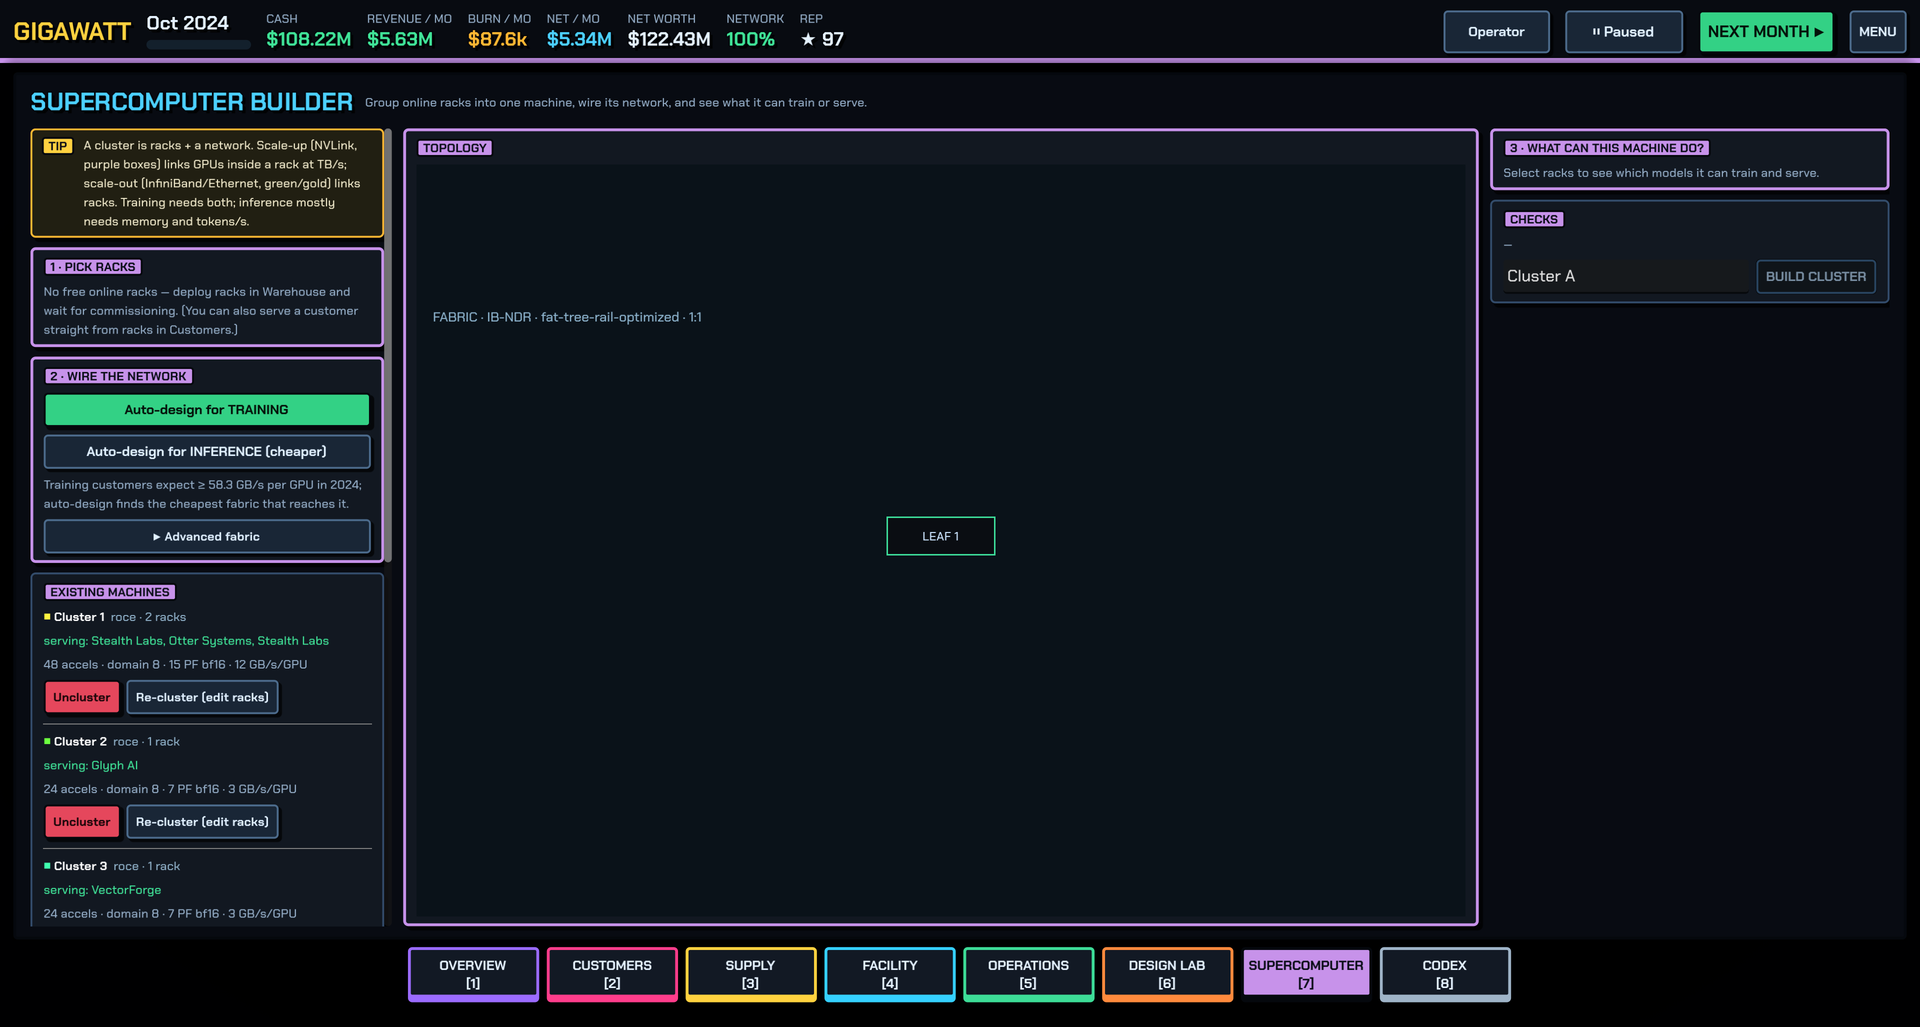
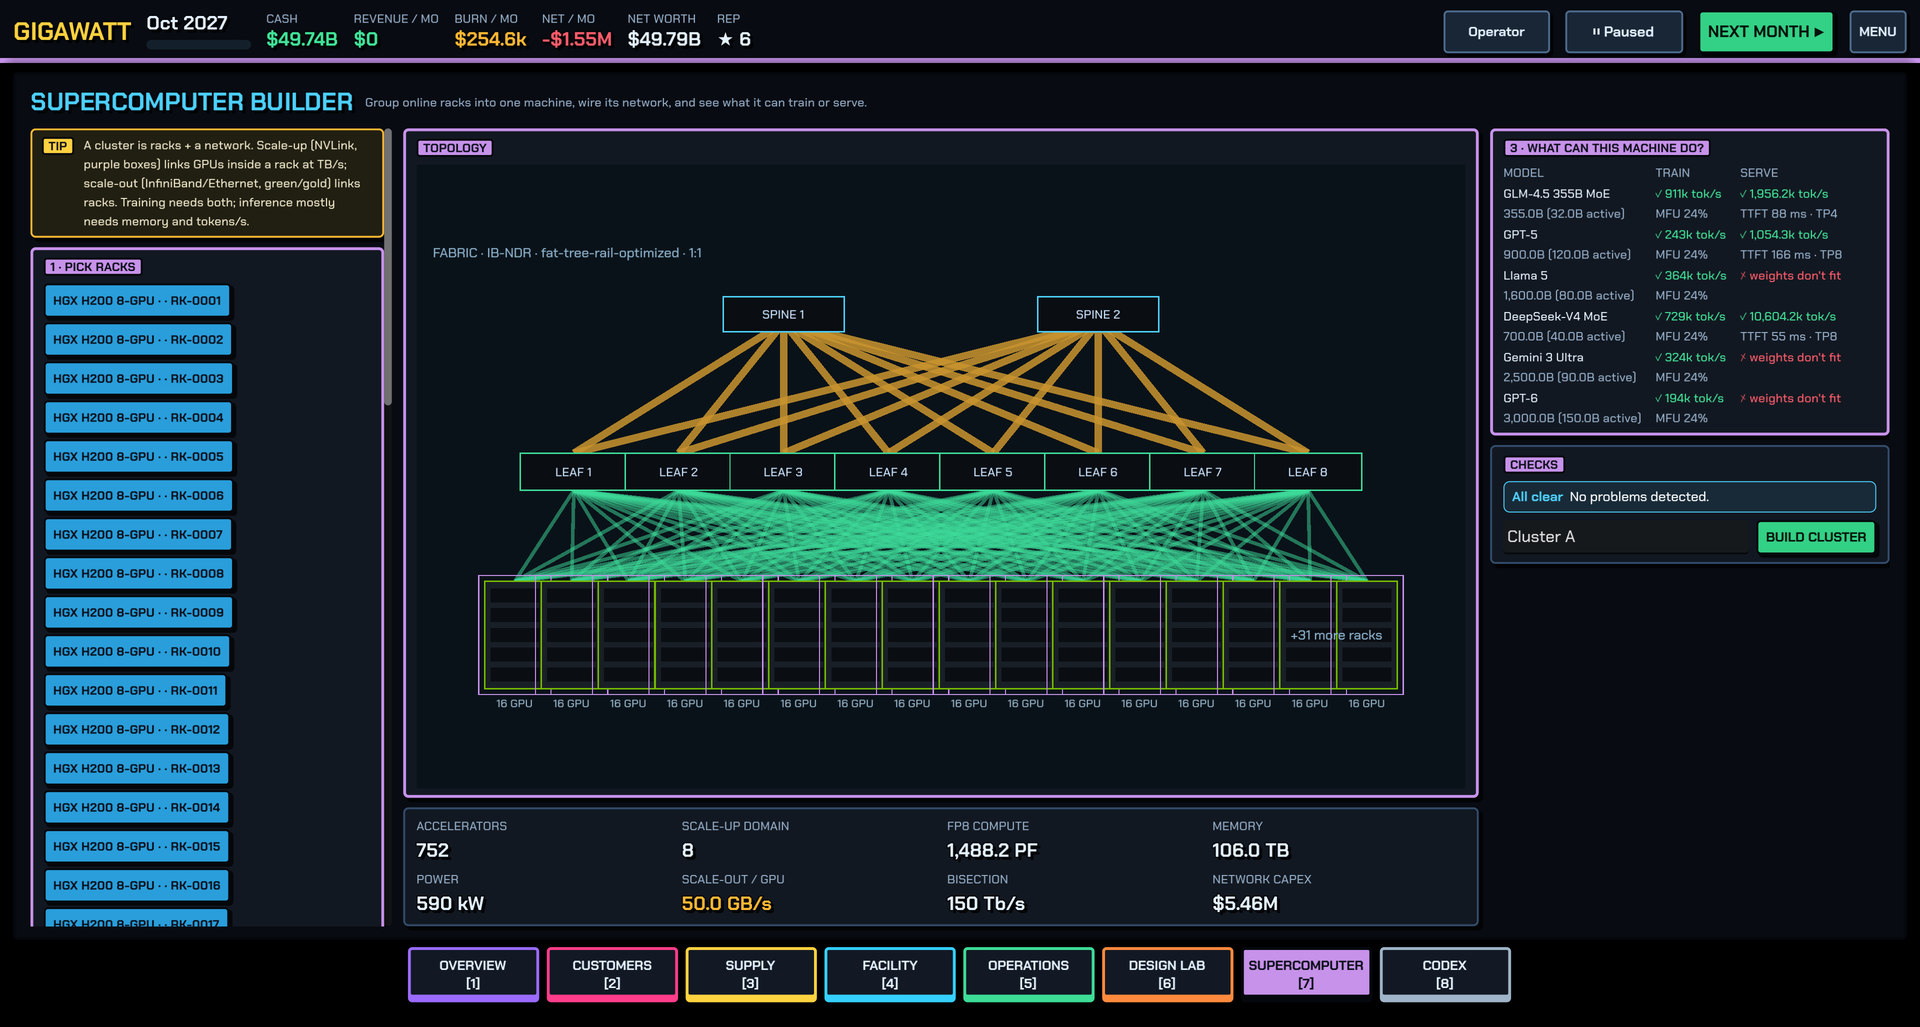
Supercomputer screenshot: 48-rack H200 cluster with a two-tier scale-out fabric (new 'supercomputer' scenario)
Claude-Session: https://claude.ai/code/session_01LLtMda2V2RW37hdgtQmr2z

diff --git a/src/env/scenarios.ts b/src/env/scenarios.ts
@@ -22,7 +22,7 @@ function plantUnit(kind: 'power' | 'cooling', cls0: string) {
 const advance = (n: number) => { for (let i = 0; i < n; i++) st().nextMonth(); };
 
 /** Build one 200-slot hall per cooling class and fill each with `racksPerTemplate` of every compatible template. Returns a report. */
-export function stressFill(racksPerTemplate: number, hallsPerClass = 1) {
+export function stressFill(racksPerTemplate: number, hallsPerClass = 1, only?: (t: typeof TEMPLATES[number]) => boolean) {
   const report: Record<string, any> = { halls: [], skipped: [] };
   const classes: CoolingClass[] = ['air', 'rdhx', 'dlc', 'immersion'];
   const hallOf: Record<string, string[]> = {};
@@ -30,6 +30,7 @@ export function stressFill(racksPerTemplate: number, hallsPerClass = 1) {
   const load: Record<string, number> = {}; const plan: { t: typeof TEMPLATES[number]; hall: string; n: number }[] = [];
   let rr = 0;
   for (const t of TEMPLATES) {
+    if (only && !only(t)) continue;
     const f = templateFacts(t); const cls = classes.find(c => c === t.rack.cooling) ?? 'air';
     const halls = hallOf[cls] ?? []; if (!halls.length) { report.skipped.push(t.id + ': no hall'); continue; }
     const hall = halls[rr++ % halls.length];
@@ -70,5 +71,6 @@ export const SCENARIOS: Scenario[] = [
   { id: 'lean', title: 'Lean start', seed: 2, horizonMonths: 120, description: '$8M cash: every dollar of capex and every contract choice matters.', setup: () => patch(g => { g.cash = 8_000_000; }) },
   { id: 'gold-rush-2025', title: 'GPU gold rush (Jan 2025)', seed: 3, horizonMonths: 60, description: 'Start in 2025 with $250M into Blackwell-era scarcity, high demand and allocation caps.', setup: () => patch(g => { g.month = 60; g.cash = 250_000_000; g.reputation = 60; g.demandBoost = 1.7; }) },
   { id: 'stress-all-racks', title: 'Stress: every rack type deployed', seed: 4, horizonMonths: 24, description: 'Sep-2026 start, effectively unlimited cash; four 200-slot halls (air/RDHx/DLC/immersion) pre-filled with every system template to test extremes of power, cooling, failures and fabric.', setup: () => { patch(g => { g.month = 80; g.cash = 5e10; }); stressFill(6); } },
+  { id: 'supercomputer', title: 'Showcase: an H200 supercomputer', seed: 6, horizonMonths: 24, description: 'Sep-2026 start with one air-cooled hall of 48 HGX H200 racks (768 GPUs), racks online and not yet clustered: open the Supercomputer screen to wire a multi-tier scale-out fabric.', setup: () => { patch(g => { g.month = 80; g.cash = 5e10; }); let first = ''; stressFill(48, 1, (t) => { if (!t.id.startsWith('tpl-hgx-h200-') || t.tier !== 'oem') return false; if (!first) first = t.id; return t.id === first; }); } },
   { id: 'stress-campus', title: 'Stress: multi-hall campus', seed: 5, horizonMonths: 24, description: 'Eight halls (two per cooling class), 12 racks of every template each: a gigawatt-class campus for scaling limits.', setup: () => { patch(g => { g.month = 80; g.cash = 2e11; }); stressFill(12, 2); } },
 ];
